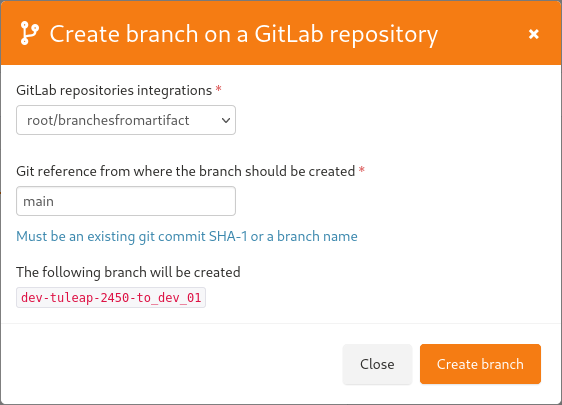
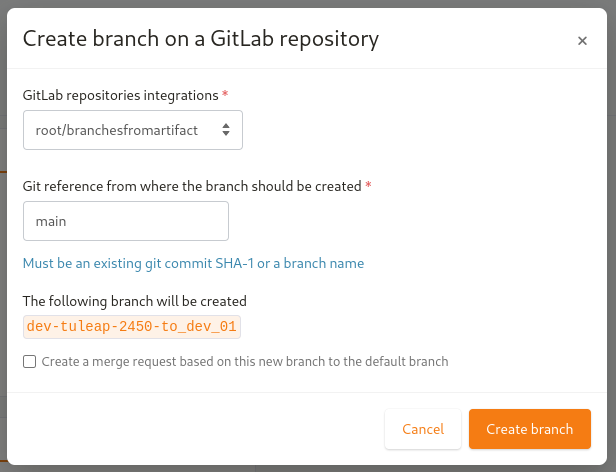
Add merge request information for artifact gitlab modal

Changed region(s): [[0.0, 0.0, 0.9982, 1.0]]

diff --git a/languages/en/user-guide/code-versioning/gitlab.rst b/languages/en/user-guide/code-versioning/gitlab.rst
@@ -175,7 +175,7 @@ The first done value retrieved by Tuleap will be used to close the artifact. If 
 Create GitLab branches from Tuleap artifact
 ```````````````````````````````````````````
 
-If some preconditions are met, user can be able to create a GitLab branch directly from a Tuleap artifact.
+If some preconditions are met, user can be able to create a GitLab branch and the corresponding merge request directly from a Tuleap artifact.
 Those preconditions are:
 
 * At least one GitLab repository is integrated in the artifact's project with token well configured
@@ -192,8 +192,8 @@ This action can be performed through the artifact action button.
 
 .. figure:: ../../images/screenshots/gitlab/gitlab-artifact-create-branch-action.png
    :align: center
-   :alt: Modal to create the GitLab branch
-   :name: Modal to create the GitLab branch
+   :alt: Modal to create the GitLab branch and Merge Request
+   :name: Modal to create the GitLab branch and Merge Request
 
 Register your GitLab repository
 -------------------------------
